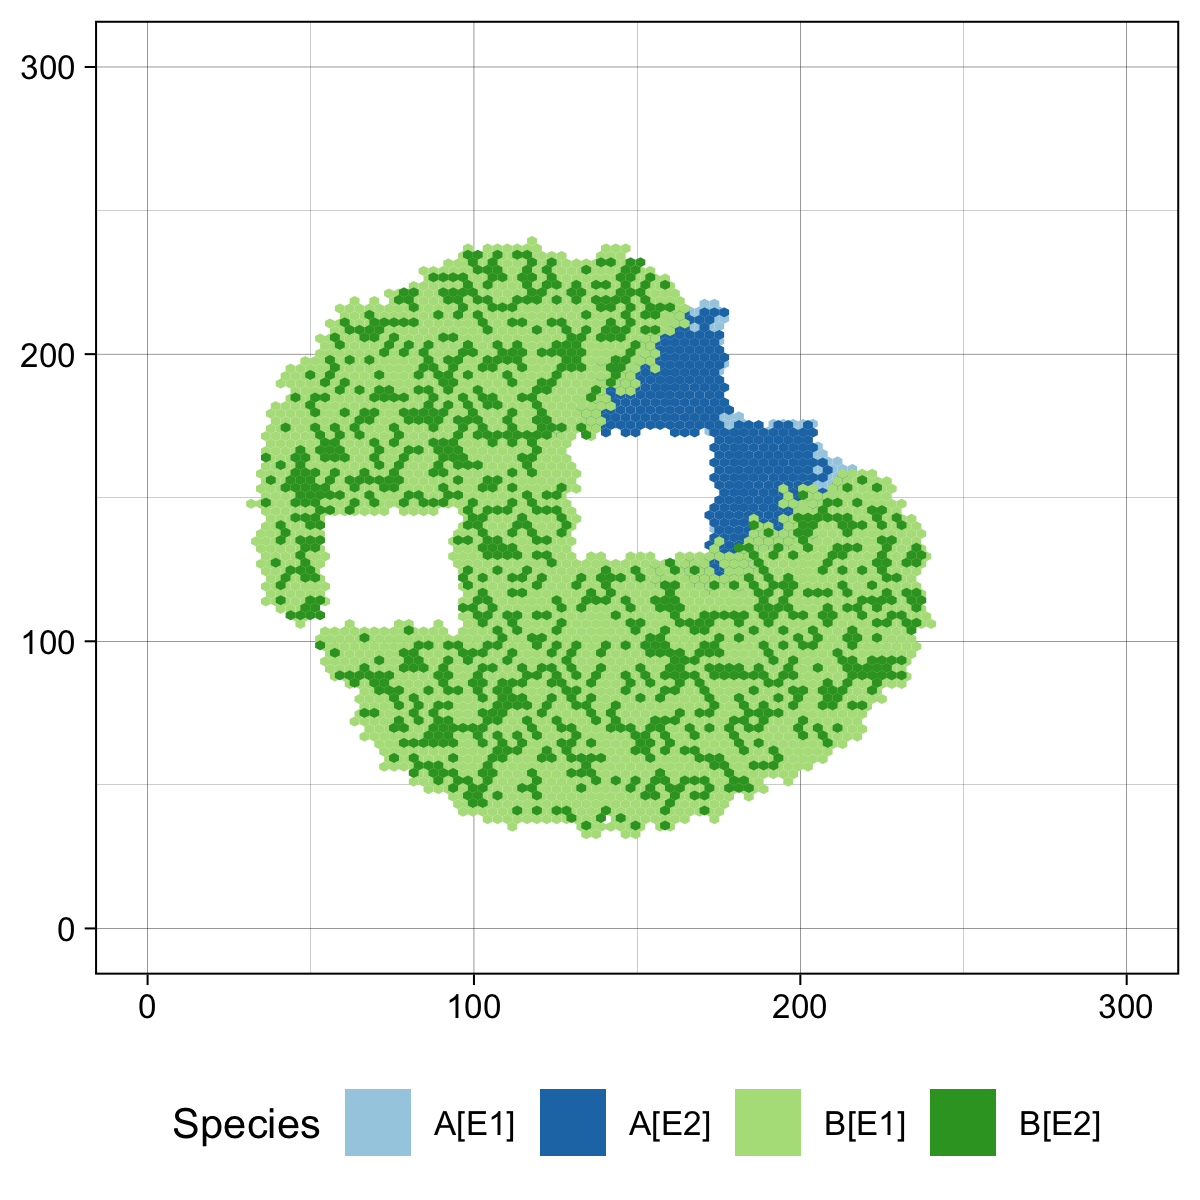
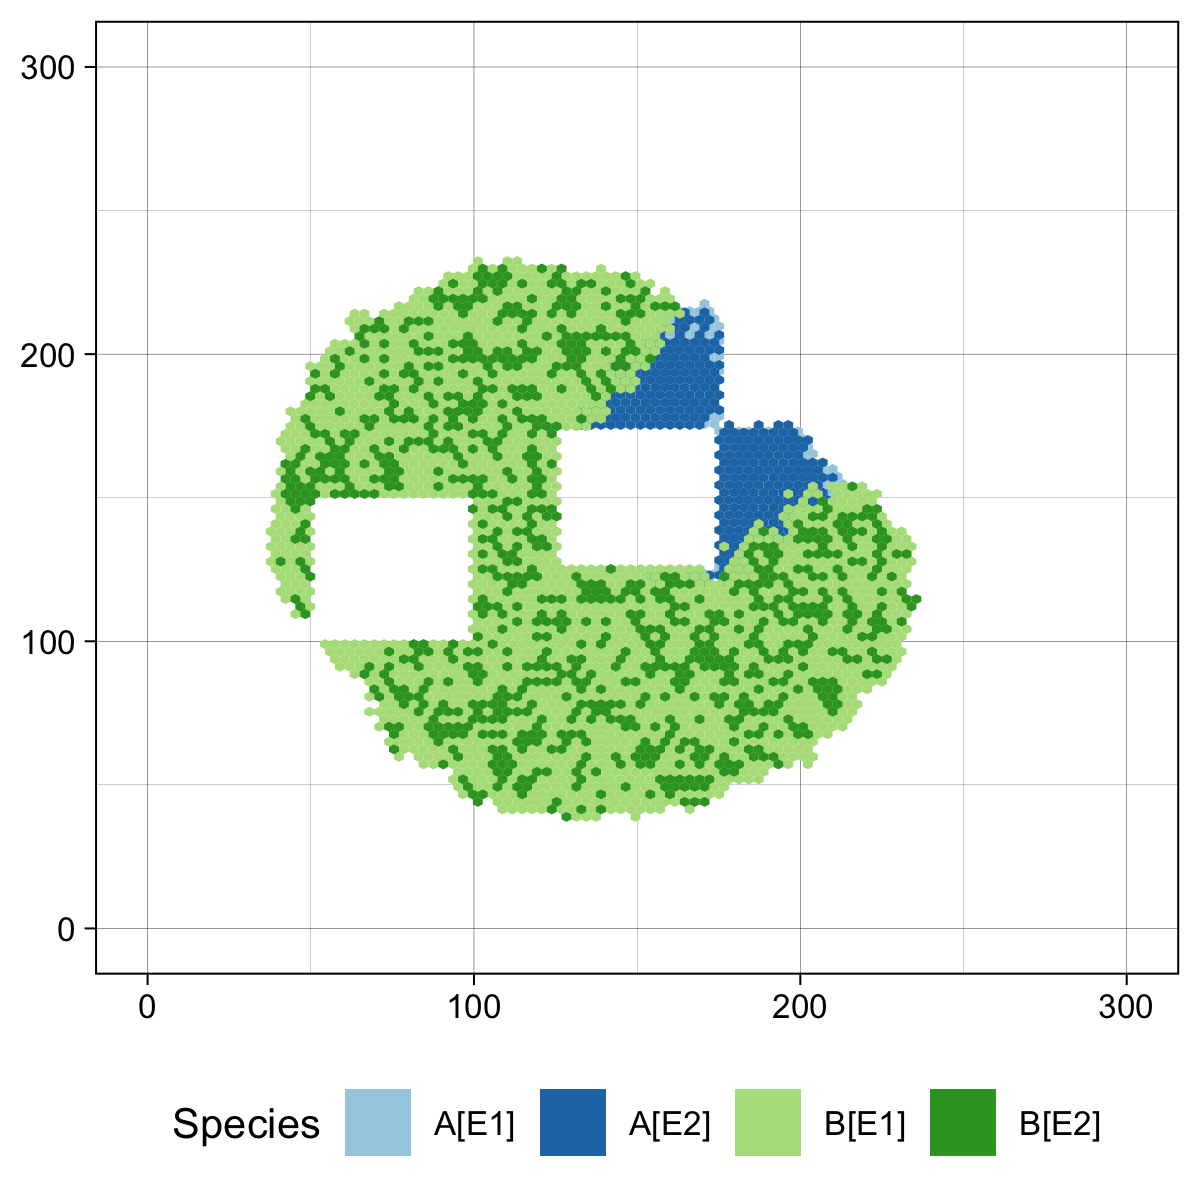
Enhanced the `README.Rmd` - added a short description of the example - small improvements in the code

Changed region(s): [[0.2158, 0.185, 0.8017, 0.7092]]

diff --git a/README.md b/README.md
@@ -44,9 +44,16 @@ pak::pak("caravagnalab/ProCESS@1.3")
 
 ### A Simple Example
 
+Once `ProCESS` has been install, it can be loaded as follows.
+
 ``` r
 library(ProCESS)
 ```
+
+Then, we can define a tissue model with 2 epigenetic states, `E1` and
+`E2`, and 2 mutants, `A` and `B`, and let the model evolve until the
+number of cells in mutant `B` with epigenetic state `E1` are less than
+20k. The resulting simulated tissue can be sampled.
 
 ``` r
 # set the seed of the random number generator for repeatability
@@ -57,30 +64,26 @@ sim <- TissueSimulation(epigenetic_states = c("E1", "E2"),
                         width = 300, height = 300)
 
 # add a mutant "A" and set its species rates
-sim$add_mutant("A", list(E1 = list(duplication = 2, death = 1,
-                                   E2 = 0.12),
-                         E2 = list(duplication = 0.8, death = 0.1,
-                                   E1 = 0.12)))
+sim$add_mutant("A", list(E1 = list(duplication = 2, death = 1, E2 = 0.12),
+                         E2 = list(duplication = 0.8, death = 0.1, E1 = 0.12)))
 
 # place one cell of "A" in epigenetic state "E1"
 sim$place_cell("A[E1]", 150, 150)
 
 # let the simulation evolve until the species "A[E2]" has less than 10 cells
 sim$run_up_to_size("A[E2]", 10)
-#>  [████████████████████████████████████████] 100% [00m:00s] Saving snapshot                                         
+#>  [████████████████████████████████████████] 100% [00m:00s] Saving snapshot
 
-# add a mutant "A" and set its species rates
-sim$add_mutant("B", list(E1 = list(duplication = 3, death = 1,
-                                   E2 = 0.12),
-                         E2 = list(duplication = 1.3, death = 1,
-                                   E1 = 0.12)))
+# add a mutant "B" and set its species rates
+sim$add_mutant("B", list(E1 = list(duplication = 3, death = 1, E2 = 0.12),
+                         E2 = list(duplication = 1.3, death = 1, E1 = 0.12)))
 
 # choose a border cell in "A" and let one of its progeny mutate in "B"
 sim$mutate_progeny(sim$choose_border_cell_in("A"), "B")
 
 # let the simulation evolve until the species "A[E2]" has less than 3000 cells
-sim$run_up_to_size("B[E1]", 2e4)
-#>  [████████████████████████████████████████] 100% [00m:12s] Saving snapshot                                         
+# avoid the progress bar
+sim$run_up_to_size("B[E1]", 2e4, quiet = TRUE)
 
 # plot the tissue
 plot_tissue(sim)
@@ -95,15 +98,14 @@ sim$sample_cells("Sample_A", c(125, 125), c(175, 175))
 sim$sample_cells("Sample_B", c(175, 175), c(225, 225))
 sim$sample_cells("Sample_C", c(50, 100), c(100, 150))
 
-# let the simulation evolve until the species "B[E1]" has less than 80k cells
-sim$run_up_to_size("B[E1]", 2e4)
-#>  [████████████████████████████████████████] 100% [00m:00s] Saving snapshot                                         
-
 # plot the tissue
 plot_tissue(sim)
 ```
 
 <img src="man/figures/README-tissue-2.png" alt="Post-sampling tissue." width="100%" />
+
+The collected samples can be used to build a sample forest whose nodes
+represent simulated cells. The forest can be plot and annotate.
 
 ``` r
 # get the sample forest
@@ -116,7 +118,14 @@ plot_forest(sample_forest) %>%
 
 <img src="man/figures/README-forest-1.png" alt="Sample forest" width="100%" />
 
-For more advanced usage examples, please refer to [![ProCESS GitHub
+Finally, `ProCESS` can label each node in the forest by the genome of
+the corresponding cell and also simulate the DNA sequencing of the
+sampled cells.
+
+For all the details about the above model and more advanced usage
+examples, please refer to
+
+[![ProCESS GitHub
 Pages](https://img.shields.io/badge/GitHub%20Pages-https://caravagnalab.github.io/ProCESS/1.3-yellow.svg)](https://caravagnalab.github.io/ProCESS/1.3)
 
 ------------------------------------------------------------------------
@@ -126,7 +135,7 @@ Pages](https://img.shields.io/badge/GitHub%20Pages-https://caravagnalab.github.i
 - Alberto Casagrande, Computational Biology and <Bioinformatics@UniUd>.
 - Giulio Caravagna, Cancer Data Science (CDS) Laboratory.
 
-[![](https://img.shields.io/badge/CDS%20Lab%20Github-albertocasagrande-seagreen.svg)](https://github.com/albertocasagrande/)
+[![](https://img.shields.io/badge/Github-albertocasagrande-seagreen.svg)](https://github.com/albertocasagrande/)
 [![](https://img.shields.io/badge/CDS%20Lab%20Github-caravagnalab-seagreen.svg)](https://github.com/caravagnalab/)
 [![](https://img.shields.io/badge/CBB%20Lab%20webpage-https://bioinf.dimi.uniud.it/-blue.svg)](https://bioinf.dimi.uniud.it/)
 [![](https://img.shields.io/badge/CDS%20Lab%20webpage-https://www.caravagnalab.org/-red.svg)](https://www.caravagnalab.org/)
